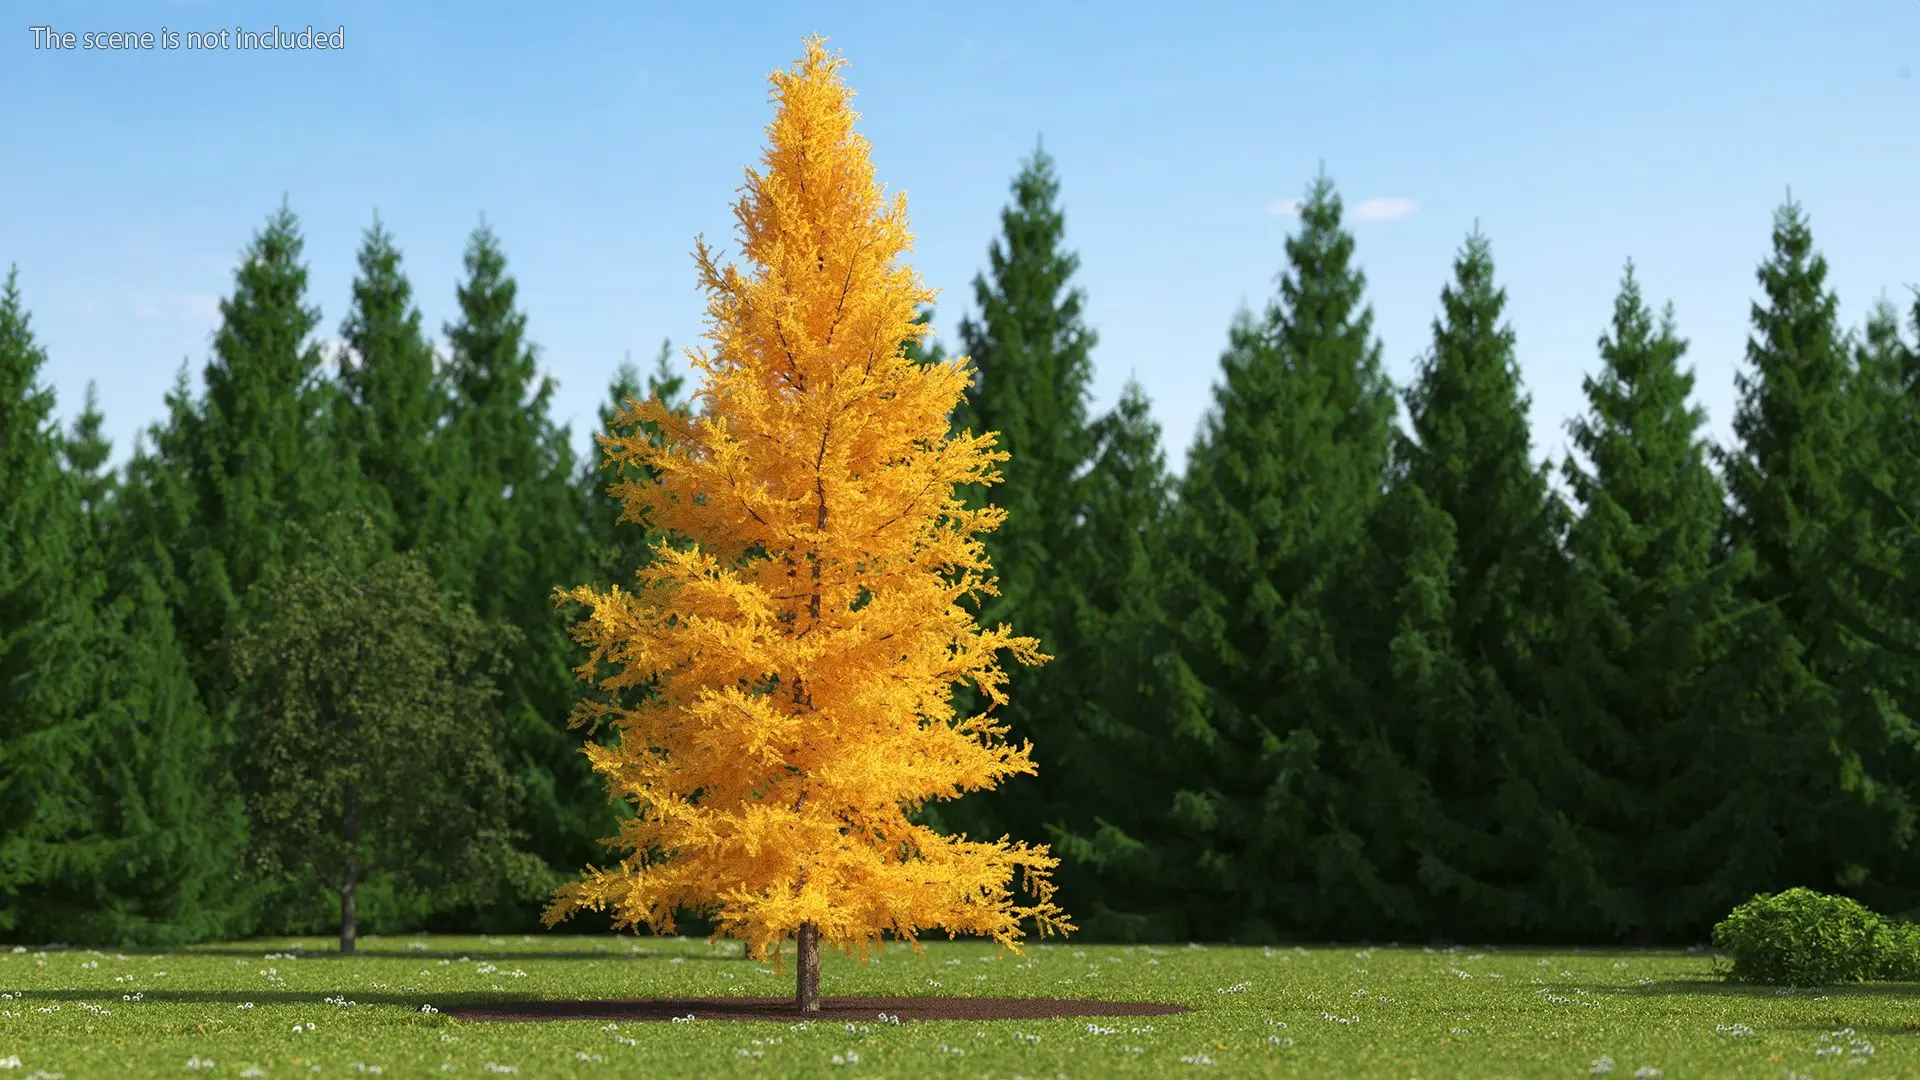
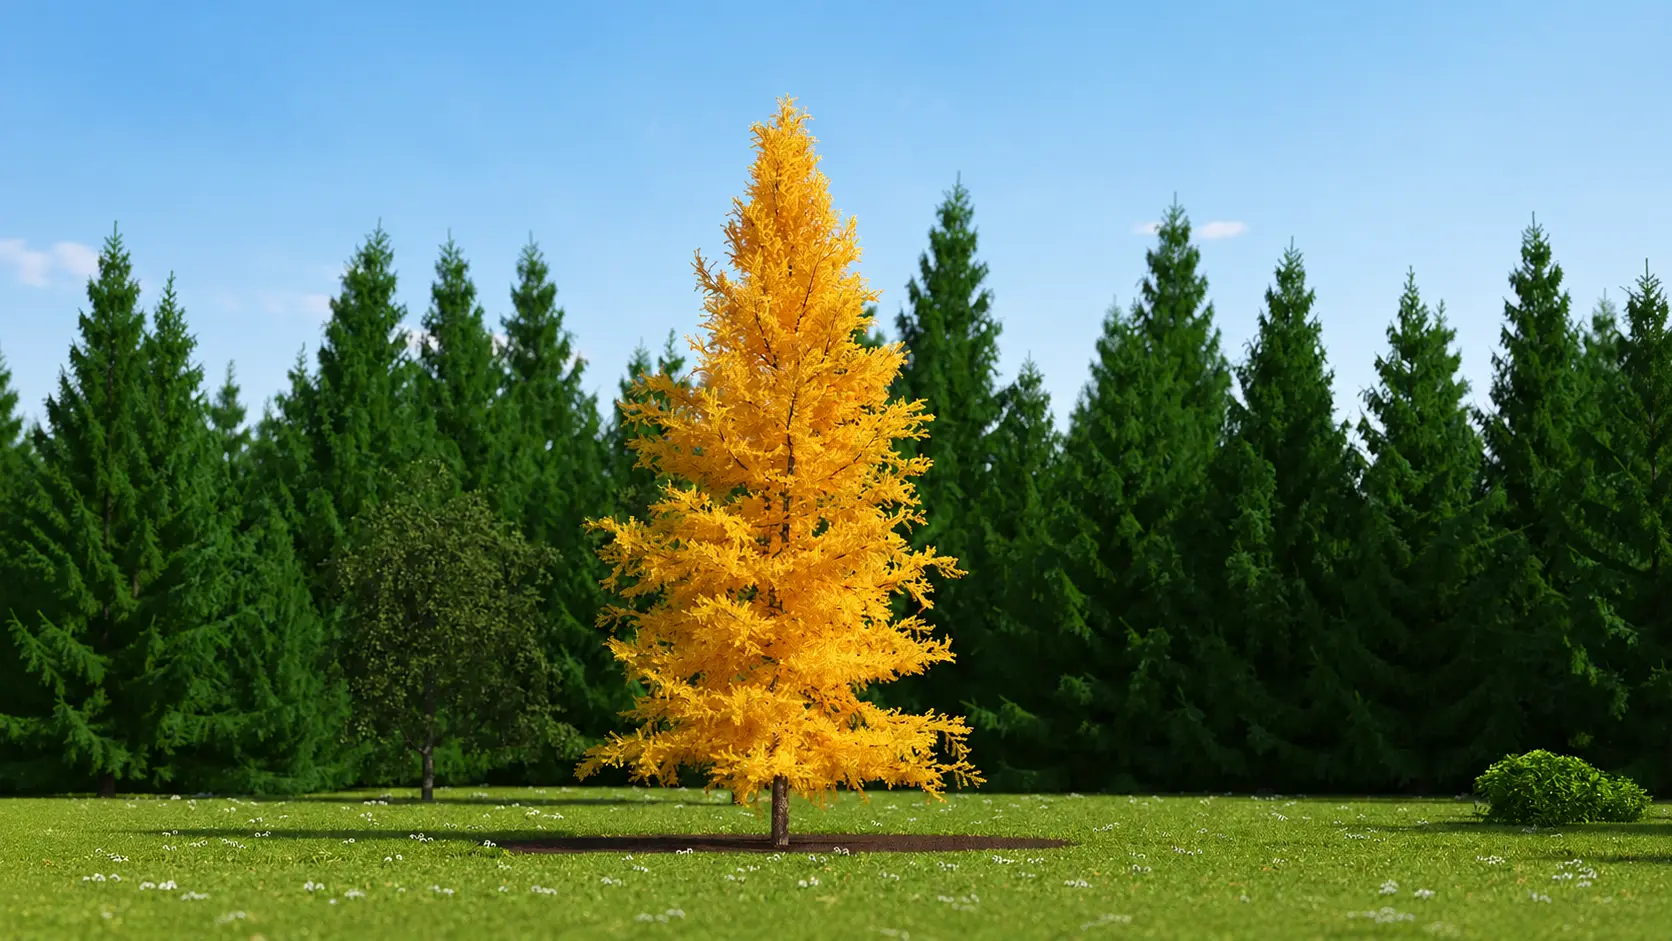
new update

diff --git a/index.html b/index.html
@@ -494,15 +494,14 @@
                                     <div class="col-xl-5 order-xl-0 order-1">
                                         <div class="design-project-content">
                                             <h4 class="design-project-title tp_reveal_anim"><a
-                                                    href="https://tuvaustriaacademy.az/en/" target="_blank">Tuv</a></h4>
-                                            <span class="tp_reveal_anim">Austria Azerbaijan</span>
+                                                    href="hhttps://leadol.co.uk/" target="_blank">Leadol</a></h4>
                                             <a class="tp-btn-sky-border height-50"
-                                                href="https://tuvaustriaacademy.az/en/" target="_blank">View project</a>
+                                                href="https://leadol.co.uk/" target="_blank">View project</a>
                                         </div>
                                     </div>
                                     <div class="col-xl-7 order-xl-1 order-0">
                                         <div class="design-project-thumb item-1 text-end">
-                                            <img src="/assets/img/home-01/project/3.webp" alt="">
+                                            <img src="/assets/img/home-01/Leadol.webp" alt="">
                                         </div>
                                     </div>
                                 </div>
@@ -2141,12 +2140,14 @@
                 <div class="container container-1320">
                     <div class="row">
                         <div class="col-lg-12">
-                            <div class="st-cta-wrapper text-center z-index-1">
-                                <h3 class="tp-section-title-playfair mb-40 tp_fade_anim" data-delay=".3"
-                                    style="font-size: 2.2rem; text-shadow: 0 4px 18px rgba(0, 0, 0, 0.18);">Let’s build something <br> that stands out. Let’s talk.
+                            <div class="st-cta-wrapper z-index-1"
+                                style="display:flex; flex-direction:column; align-items:flex-start; text-align:left; width:fit-content; margin-left:auto;">
+                                <h3 class="tp-section-title-playfair mb-20 tp_fade_anim" data-delay=".3"
+                                    style="font-size: 3.2rem; text-shadow: 0 4px 18px rgba(0, 0, 0, 0.18);">
+                                    Let’s build something <br> that stands out.
                                 </h3>
                                 <a class="tp-btn-border-2 st" href="contact.html">
-                                    Let's talk
+                                    Let’s talk.
                                     <span>
                                         <svg xmlns="http://www.w3.org/2000/svg" width="14" height="14"
                                             viewBox="0 0 14 14" fill="none">

diff --git a/contact.html b/contact.html
@@ -611,19 +611,21 @@
        
             <!-- footer area start -->
 
-            <!-- cta area start -->
+             <!-- cta area start -->
             <div class="st-cta-area st-cta-ptb p-relative pb-120">
                 <div class="st-cta-bg-circle" data-background="/assets/img/home-01/footer/footerimg.webp">
                 </div>
                 <div class="container container-1320">
                     <div class="row">
                         <div class="col-lg-12">
-                            <div class="st-cta-wrapper text-center z-index-1">
-                                <h3 class="tp-section-title-playfair mb-40 tp_fade_anim" data-delay=".3">LET’S WORK <br>
-                                    <span>TOGETHER</span>
+                            <div class="st-cta-wrapper z-index-1"
+                                style="display:flex; flex-direction:column; align-items:flex-start; text-align:left; width:fit-content; margin-left:auto;">
+                                <h3 class="tp-section-title-playfair mb-20 tp_fade_anim" data-delay=".3"
+                                    style="font-size: 3.2rem; text-shadow: 0 4px 18px rgba(0, 0, 0, 0.18);">
+                                    Let’s build something <br> that stands out.
                                 </h3>
                                 <a class="tp-btn-border-2 st" href="contact.html">
-                                    CONTACT US
+                                    Let’s talk.
                                     <span>
                                         <svg xmlns="http://www.w3.org/2000/svg" width="14" height="14"
                                             viewBox="0 0 14 14" fill="none">

diff --git a/about.html b/about.html
@@ -1051,12 +1051,14 @@
                 <div class="container container-1320">
                     <div class="row">
                         <div class="col-lg-12">
-                            <div class="st-cta-wrapper text-center z-index-1">
-                                <h3 class="tp-section-title-playfair mb-40 tp_fade_anim" data-delay=".3">LET’S WORK <br>
-                                    <span>TOGETHER</span>
+                            <div class="st-cta-wrapper z-index-1"
+                                style="display:flex; flex-direction:column; align-items:flex-start; text-align:left; width:fit-content; margin-left:auto;">
+                                <h3 class="tp-section-title-playfair mb-20 tp_fade_anim" data-delay=".3"
+                                    style="font-size: 3.2rem; text-shadow: 0 4px 18px rgba(0, 0, 0, 0.18);">
+                                    Let’s build something <br> that stands out.
                                 </h3>
                                 <a class="tp-btn-border-2 st" href="contact.html">
-                                    CONTACT US
+                                    Let’s talk.
                                     <span>
                                         <svg xmlns="http://www.w3.org/2000/svg" width="14" height="14"
                                             viewBox="0 0 14 14" fill="none">

diff --git a/service.html b/service.html
@@ -894,12 +894,14 @@
                 <div class="container container-1320">
                     <div class="row">
                         <div class="col-lg-12">
-                            <div class="st-cta-wrapper text-center z-index-1">
-                                <h3 class="tp-section-title-playfair mb-40 tp_fade_anim" data-delay=".3">LET’S WORK <br>
-                                    <span>TOGETHER</span>
+                            <div class="st-cta-wrapper z-index-1"
+                                style="display:flex; flex-direction:column; align-items:flex-start; text-align:left; width:fit-content; margin-left:auto;">
+                                <h3 class="tp-section-title-playfair mb-20 tp_fade_anim" data-delay=".3"
+                                    style="font-size: 3.2rem; text-shadow: 0 4px 18px rgba(0, 0, 0, 0.18);">
+                                    Let’s build something <br> that stands out.
                                 </h3>
                                 <a class="tp-btn-border-2 st" href="contact.html">
-                                    CONTACT US
+                                    Let’s talk.
                                     <span>
                                         <svg xmlns="http://www.w3.org/2000/svg" width="14" height="14"
                                             viewBox="0 0 14 14" fill="none">

diff --git a/web-design.html b/web-design.html
@@ -468,12 +468,14 @@
                 <div class="container container-1320">
                     <div class="row">
                         <div class="col-lg-12">
-                            <div class="st-cta-wrapper text-center z-index-1">
-                                <h3 class="tp-section-title-playfair mb-40 tp_fade_anim" data-delay=".3">LET’S WORK <br>
-                                    <span>TOGETHER</span>
+                            <div class="st-cta-wrapper z-index-1"
+                                style="display:flex; flex-direction:column; align-items:flex-start; text-align:left; width:fit-content; margin-left:auto;">
+                                <h3 class="tp-section-title-playfair mb-20 tp_fade_anim" data-delay=".3"
+                                    style="font-size: 3.2rem; text-shadow: 0 4px 18px rgba(0, 0, 0, 0.18);">
+                                    Let’s build something <br> that stands out.
                                 </h3>
                                 <a class="tp-btn-border-2 st" href="contact.html">
-                                    CONTACT US
+                                    Let’s talk.
                                     <span>
                                         <svg xmlns="http://www.w3.org/2000/svg" width="14" height="14"
                                             viewBox="0 0 14 14" fill="none">